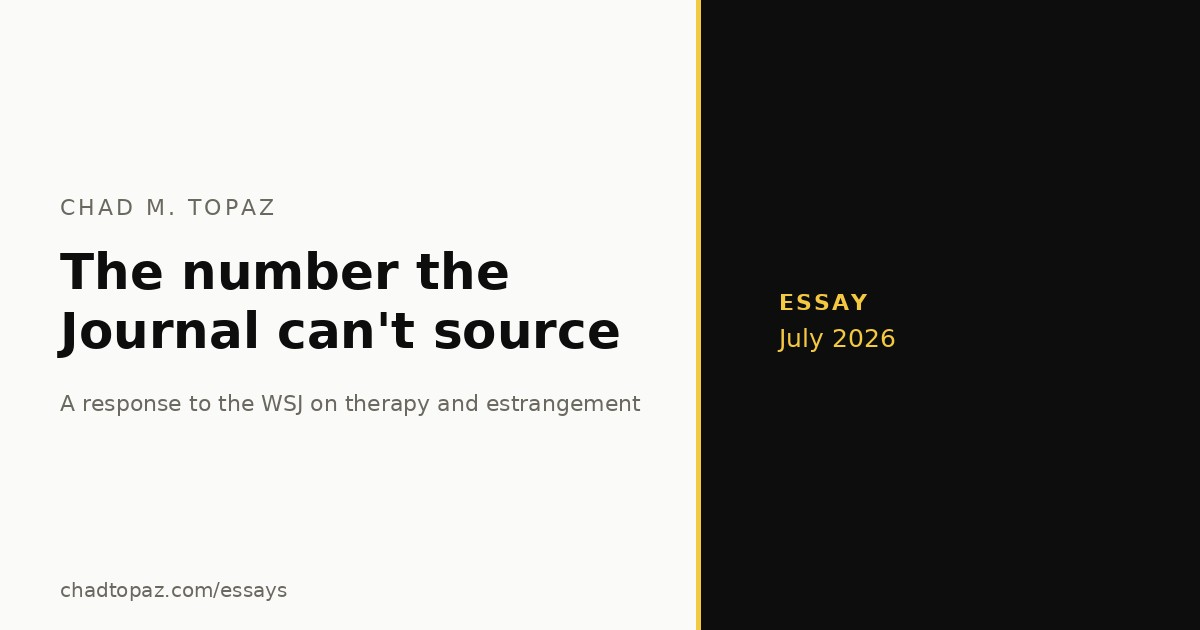
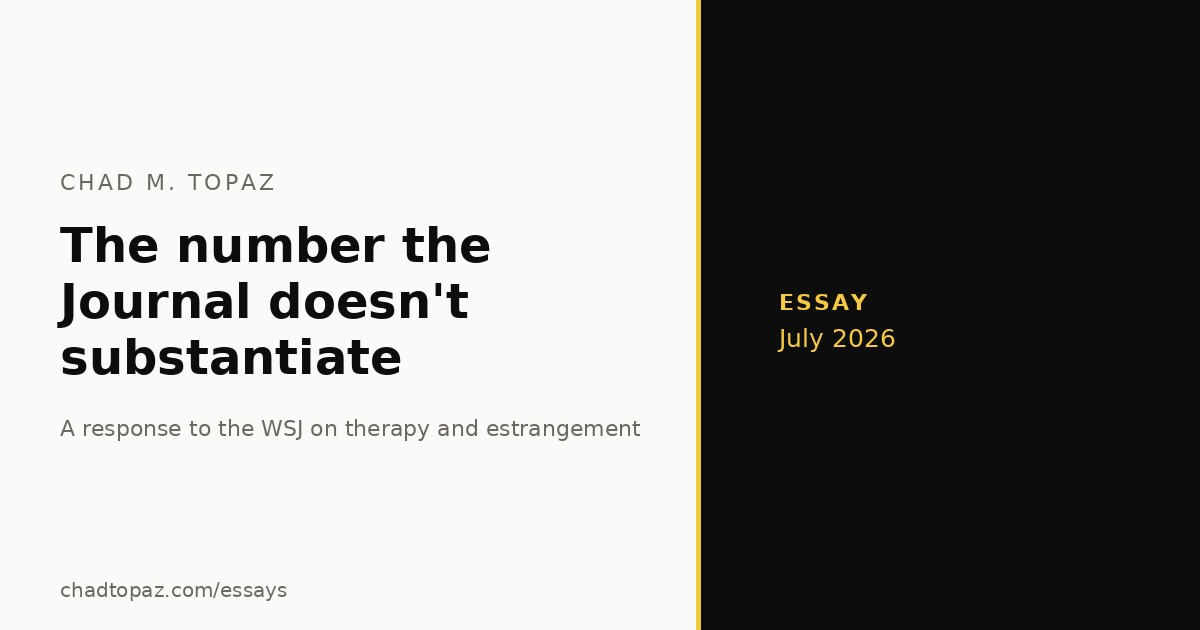
Add essay: The number the Journal doesn't substantiate (WSJ therapy/estrangement response)

Changed region(s): [[0.0308, 0.2714, 0.5242, 0.6032], [0.0308, 0.6333, 0.5242, 0.6937]]

diff --git a/essays/therapy-estrangement.html b/essays/therapy-estrangement.html
@@ -3,19 +3,19 @@
 <head>
 <meta charset="UTF-8">
 <meta name="viewport" content="width=device-width, initial-scale=1.0">
-<meta name="description" content="The Journal says a survey of some 7,000 estranged parents found a third blaming their child's therapist. The public data don't match that number, come from a one-sided, self-selected sample, and cannot establish cause. Nothing the column cites shows that estrangement is rising.">
-<meta property="og:title" content="The Number the Journal Can't Source: A Response to the Wall Street Journal on Therapy and Estrangement — Chad M. Topaz">
-<meta property="og:description" content="The Journal says a survey of some 7,000 estranged parents found a third blaming their child's therapist. The public data don't match that number, come from a one-sided, self-selected sample, and cannot establish cause. Nothing the column cites shows that estrangement is rising.">
+<meta name="description" content="The Journal says a survey of some 7,000 estranged parents found a third who believed their child's therapist had influenced the cutoff. The nearest public survey can't be reconciled with that number, comes from a one-sided, self-selected sample, and cannot establish cause. Nothing the column cites shows that estrangement is rising.">
+<meta property="og:title" content="The Number the Journal Doesn't Substantiate: A Response to the Wall Street Journal on Therapy and Estrangement — Chad M. Topaz">
+<meta property="og:description" content="The Journal says a survey of some 7,000 estranged parents found a third who believed their child's therapist had influenced the cutoff. The nearest public survey can't be reconciled with that number, comes from a one-sided, self-selected sample, and cannot establish cause. Nothing the column cites shows that estrangement is rising.">
 <meta property="og:type" content="article">
 <meta property="og:url" content="https://www.chadtopaz.com/essays/therapy-estrangement.html">
 <meta property="og:image" content="https://www.chadtopaz.com/images/therapy-estrangement-og.jpg">
 <meta property="og:site_name" content="Chad M. Topaz">
 <meta name="twitter:card" content="summary_large_image">
-<meta name="twitter:title" content="The Number the Journal Can't Source: A Response to the Wall Street Journal on Therapy and Estrangement — Chad M. Topaz">
-<meta name="twitter:description" content="The Journal says a survey of some 7,000 estranged parents found a third blaming their child's therapist. The public data don't match that number, come from a one-sided, self-selected sample, and cannot establish cause. Nothing the column cites shows that estrangement is rising.">
+<meta name="twitter:title" content="The Number the Journal Doesn't Substantiate: A Response to the Wall Street Journal on Therapy and Estrangement — Chad M. Topaz">
+<meta name="twitter:description" content="The Journal says a survey of some 7,000 estranged parents found a third who believed their child's therapist had influenced the cutoff. The nearest public survey can't be reconciled with that number, comes from a one-sided, self-selected sample, and cannot establish cause. Nothing the column cites shows that estrangement is rising.">
 <meta name="twitter:image" content="https://www.chadtopaz.com/images/therapy-estrangement-og.jpg">
 <link rel="canonical" href="https://www.chadtopaz.com/essays/therapy-estrangement.html">
-<title>The number the Journal can't source: A response to the Wall Street Journal on therapy and estrangement — Chad M. Topaz</title>
+<title>The number the Journal doesn't substantiate: A response to the Wall Street Journal on therapy and estrangement — Chad M. Topaz</title>
 <link rel="stylesheet" href="../css/style.css">
 <style>
 .essay-body {
@@ -109,8 +109,8 @@
 </div>
 <div class="page-header">
   <div class="page-label">Essay</div>
-  <h1 class="page-title">The number the Journal can't source: A response to the Wall Street Journal on therapy and estrangement</h1>
-  <p class="page-subtitle">The Journal says a survey of some 7,000 estranged parents found a third blaming their child&rsquo;s therapist. The public data don&rsquo;t match that number, come from a one-sided, self-selected sample, and cannot establish cause &mdash; and nothing the column cites shows that estrangement is rising.</p>
+  <h1 class="page-title">The number the Journal doesn't substantiate: A response to the Wall Street Journal on therapy and estrangement</h1>
+  <p class="page-subtitle">The Journal says a survey of some 7,000 estranged parents found a third who believed their child&rsquo;s therapist had influenced the cutoff. The nearest public survey can&rsquo;t be reconciled with that number, comes from a one-sided, self-selected sample, and cannot establish cause &mdash; and nothing the column cites shows that estrangement is rising.</p>
   <p class="essay-date">July 2026</p>
 </div>
 <div class="page-content">
@@ -120,19 +120,19 @@
 
 <p>The piece traveled fast. Within days, <a href="https://pjmedia.com/matt-margolis/2026/07/23/is-this-the-reason-your-leftist-relatives-are-cutting-you-off-n4955359" target="_blank">PJ Media</a> repackaged it as &ldquo;Is This the Reason Your Leftist Relatives Are Cutting You Off?&rdquo; and the <a href="https://www.dailywire.com/news/this-insane-new-therapy-trend-is-destroying-families" target="_blank">Daily Wire</a> as &ldquo;This Insane New Therapy Trend Is Destroying Families.&rdquo; A reported relationships column became, within one news cycle, a citation for the claim that therapy is dismantling the American family.</p>
 
-<p>Parts of the column describe something real. If a therapist recommended permanent estrangement in a second session, without adequate assessment or any exploration of alternatives, that would be poor practice. Rubli&rsquo;s account suggests that may have happened &mdash; though the column offers only her retrospective telling, with no clinical notes and no response from the therapist. Several therapists <a href="https://monews.substack.com/p/is-therapy-to-blame-for-the-rise" target="_blank">responding to Mo News</a> agreed that the approach she described would be wrong. William Doherty, the University of Minnesota family scientist the Journal quotes, has published a <a href="https://experts.umn.edu/en/publications/relationship-undermining-statements-by-psychotherapists-with-clie/" target="_blank">small pilot study</a> of a related concern: clients in individual therapy commonly recalled therapists making &ldquo;relationship-undermining statements&rdquo; about their romantic partners, and those recollections went along with worse relationship outcomes. The clinical concern deserves the attention it is getting. The causal story wrapped around it does not.</p>
+<p>Parts of the column describe something real. If a therapist recommended estrangement in a second session, without adequate assessment or any exploration of alternatives, that would be poor practice. Rubli&rsquo;s account suggests that may have happened &mdash; though the column offers only her retrospective telling, with no clinical notes and no response from the therapist. Several therapists <a href="https://monews.substack.com/p/is-therapy-to-blame-for-the-rise" target="_blank">responding to Mo News</a> agreed that the approach she described would be wrong. William Doherty, the University of Minnesota family scientist the Journal quotes, has published a <a href="https://experts.umn.edu/en/publications/relationship-undermining-statements-by-psychotherapists-with-clie/" target="_blank">small pilot study</a> of a related concern: clients in individual therapy commonly recalled therapists making &ldquo;relationship-undermining statements&rdquo; about their romantic partners, and those recollections went along with worse relationship outcomes. The clinical concern deserves the attention it is getting. The broader causal claim has not been established.</p>
 
-<p>I am a data scientist who works on issues of social justice, and much of that work comes down to one habit: before accepting the story a number tells, find out how the number was made. So I went looking for the source behind every empirical claim in the column. Here is what I found. First, the public data behind the column&rsquo;s central number do not match what the column describes: the surveys that exist are self-selected, one-sided, and explicitly noncausal, and they do not add up to &ldquo;some 7,000&rdquo; parents surveyed in April. Second, the &ldquo;rise&rdquo; in the headline rests on no repeated national measure. Third, the evidence that does exist &mdash; on why people leave, what leaving costs, and what therapists actually do &mdash; is more limited, mixed, and noncausal than the column implies.</p>
+<p>I am a data scientist who works on issues of social justice, and much of that work comes down to one habit: before accepting the story a number tells, find out how the number was made. So I went looking for the source behind every empirical claim in the column. Here is what I found. First, Anderson&rsquo;s public survey archive cannot be reconciled with the column&rsquo;s central number: the surveys it contains are self-selected, one-sided, and explicitly noncausal, and they do not add up to &ldquo;some 7,000&rdquo; parents surveyed in April. Second, the &ldquo;rise&rdquo; in the headline rests on no repeated national measure. Third, the evidence that does exist &mdash; on why people leave, what leaving costs, and what therapists actually do &mdash; is more limited, mixed, and noncausal than the column implies.</p>
 
 <h2>A number the column never shows</h2>
 
-<p>Start with the 7,000. The column attributes the survey to Peter Anderson, a licensed marriage and family therapist in Beverly, Mass., &ldquo;who helps families with estrangements and conducted the surveys.&rdquo; Anderson and Richard Blake have in fact posted a <a href="https://osf.io/6xt53/" target="_blank">public archive</a> of survey work on OSF. It documents two self-selected surveys run in 2024&ndash;25, with roughly 1,027 and 4,226 respondents &mdash; about 5,253 in total, not &ldquo;some 7,000&rdquo; surveyed in April. The materials describe recruitment through social-media channels for people interested in estrangement and a parent-only sample, and call the work &mdash; in the authors&rsquo; own words &mdash; citizen science rather than peer-reviewed research; they warn that the respondents overrepresent parents who feel wronged, and they state plainly that the data do not show therapy causes estrangement. The authors also disclose a professional interest in criticizing certain therapeutic practices. So the problem is not that no survey exists. It is that the public survey does not match the number the column reports &mdash; different sample, different size, different timing &mdash; and the column shows none of the methodology that would let a reader connect the two. The Journal should say what survey produced &ldquo;some 7,000&rdquo; parents, an April fielding, and a one-third figure, and publish its questionnaire, recruitment, and denominator.</p>
+<p>Start with the 7,000. The column attributes the survey to Peter Anderson, a licensed marriage and family therapist in Beverly, Mass., &ldquo;who helps families with estrangements and conducted the surveys.&rdquo; The only public Anderson survey archive I could find, <a href="https://osf.io/6xt53/" target="_blank">posted to OSF</a> by Anderson and Richard Blake, documents two self-selected surveys run in 2024&ndash;25, with roughly 1,027 and 4,226 respondents &mdash; about 5,253 in total, not &ldquo;some 7,000&rdquo; surveyed in April. The materials describe recruitment through social-media channels for people interested in estrangement and a parent-only sample, and call the work &mdash; in the authors&rsquo; own words &mdash; citizen science rather than peer-reviewed research; they warn that the respondents overrepresent parents who feel wronged, and they state plainly that the data do not show therapy causes estrangement. The authors also disclose a professional interest in criticizing certain therapeutic practices. These materials cannot be matched to the survey as the Journal describes it &mdash; different sample, different size, different timing &mdash; and the column does not explain whether its figure comes from a later survey, an expanded sample, or some combination of datasets. The Journal should say what survey produced &ldquo;some 7,000&rdquo; parents, an April fielding, and a one-third figure, and publish its questionnaire, recruitment, and denominator.</p>
 
-<p>Now look at what the number measures even if the survey were pristine. The load-bearing word is <em>believed</em>. Estranged parents were asked what they believed happened in confidential therapy sessions they did not attend, conducted by clinicians they never met. The role of therapy is one of the things both public surveys set out to measure, so the trouble is not that the question went unasked. It is that a parent&rsquo;s belief about a session she was not in is not evidence of what the therapist actually did.</p>
+<p>Now look at what the number measures even if the survey were pristine. The load-bearing word is <em>believed</em>. As the column reports the statistic, it records parents&rsquo; beliefs about therapy&rsquo;s role &mdash; not therapists&rsquo; records or adult children&rsquo;s accounts. The column does not disclose how respondents learned about the therapy, whether the adult child described the therapist&rsquo;s advice, whether a parent attended any session, or precisely what respondents were asked. The statistic therefore cannot directly measure what therapists did.</p>
 
-<p>That gap between belief and knowledge matters, because parents and adult children explain these ruptures differently. A 2015 study by Kristen Carr and colleagues, <a href="https://www.tandfonline.com/doi/abs/10.1080/15267431.2015.1013106" target="_blank">comparing separate, non-matched samples</a> of 546 estranged parents and 352 estranged adult children, found a systematic asymmetry: adult children point at the relationship &mdash; abuse, betrayal, feeling unaccepted &mdash; while parents point away from it, to divorce, to a son- or daughter-in-law, to outside influence. Joshua Coleman, a prominent advocate of the therapist explanation, <a href="https://knowablemagazine.org/content/article/mind/2026/causes-of-family-estrangement" target="_blank">lists the pattern himself</a>: parents blame &ldquo;divorce, their child&rsquo;s marriage or their child&rsquo;s therapy.&rdquo; A survey of estranged parents&rsquo; beliefs about therapists measures where grieving parents place blame &mdash; the one quantity this literature already predicted.</p>
+<p>That gap between belief and knowledge matters, because parents and adult children explain these ruptures differently. A 2015 study by Kristen Carr and colleagues <a href="https://www.tandfonline.com/doi/abs/10.1080/15267431.2015.1013106" target="_blank">compared separate, non-matched samples</a> of 546 estranged parents and 352 estranged adult children. Parents most often attributed the rift to their children&rsquo;s objectionable relationships or sense of entitlement, whereas adult children most often cited their parents&rsquo; toxic behavior or feeling unsupported and unaccepted. Joshua Coleman, a prominent advocate of the therapist explanation, <a href="https://knowablemagazine.org/content/article/mind/2026/causes-of-family-estrangement" target="_blank">summarizes a related asymmetry</a>: parents are more likely to blame &ldquo;divorce, their child&rsquo;s marriage or their child&rsquo;s therapy.&rdquo; The methodological point is that an attribution survey of parents measures parents&rsquo; accounts &mdash; not therapist behavior, and not which account is correct.</p>
 
-<p>And take the column&rsquo;s own figure at face value. If a third of these self-selected, parent-only respondents believed a therapist influenced the cutoff, then two-thirds did not.</p>
+<p>And even if the one-third figure were accepted, it would estimate a belief within this self-selected parent sample &mdash; not how often therapists recommend estrangement.</p>
 
 <h2>Four polls are not a trend line</h2>
 
@@ -140,13 +140,13 @@
 
 <p>Here is the actual inventory. Karl Pillemer&rsquo;s <a href="https://news.cornell.edu/stories/2020/09/pillemer-family-estrangement-problem-hiding-plain-sight" target="_blank">national survey</a> of 1,340 American adults, published in 2020, found 27 percent estranged from a family member and 10 percent from a parent or child. A <a href="https://yougov.com/en-us/articles/44817-poll-family-ties-proximity-and-estrangement" target="_blank">2022 YouGov poll</a> put estrangement from an immediate family member at 29 percent. A <a href="https://theharrispoll.com/articles/estrangement/" target="_blank">2024 Harris poll</a> put immediate-family estrangement at 35 percent. A <a href="https://yougov.com/en-us/articles/52733-family-estrangement-how-often-and-why-it-happens" target="_blank">2025 YouGov poll</a> found 38 percent estranged from at least one of five listed relatives &mdash; sibling, parent, child, grandparent, grandchild.</p>
 
-<p>Plot 27, 29, 35, 38 and you see an epidemic. Read the four questionnaires and it dissolves: different polling houses, different definitions, different lists of relatives, different response scales. No comparable repeated national measure &mdash; the same instrument, the same population, at two points in time &mdash; has been cited to show estrangement rising. (Panels that do follow the same people, like a <a href="https://onlinelibrary.wiley.com/doi/full/10.1111/jomf.12796" target="_blank">ten-wave German study</a>, measure how common estrangement is, not whether it is climbing nationally.) That is an open question, not a premise for a headline; even the rise-framed reporting the column leans on <a href="https://knowablemagazine.org/content/article/mind/2026/causes-of-family-estrangement" target="_blank">concedes</a> that no one has quantified how much estrangement has increased.</p>
+<p>Plot 27, 29, 35, 38 and you see an epidemic. Read the four questionnaires and it dissolves: different polling houses, different definitions, different lists of relatives, different response scales. No comparable repeated national measure &mdash; the same instrument, the same population, at two points in time &mdash; has been cited to show estrangement rising. (Panels that do follow the same people, like a <a href="https://onlinelibrary.wiley.com/doi/full/10.1111/jomf.12796" target="_blank">ten-wave German study</a>, measure how common estrangement is, not whether it is climbing nationally.) That is an open question, not a premise for a headline; even a recent rise-framed article in <a href="https://knowablemagazine.org/content/article/mind/2026/causes-of-family-estrangement" target="_blank">Knowable Magazine</a> concedes that researchers have not quantified how much estrangement has increased.</p>
 
-<p>Longitudinal data also suggest estrangement is anything but new. Analyzing the National Longitudinal Survey of Youth &mdash; a federal study that has followed the same families for decades &mdash; <a href="https://onlinelibrary.wiley.com/doi/full/10.1111/jomf.12898" target="_blank">Rin Reczek and colleagues</a> found that 26 percent of adult children experienced a period of estrangement from a father and 6 percent from a mother, with first estrangements at average ages of 23 and 26. Reczek defines estrangement broadly &mdash; little or no contact, or limited contact paired with low closeness &mdash; not only a declared, permanent &ldquo;no contact.&rdquo; The panel observed periods meeting that definition from 1994 through 2018, well before estrangement TikTok, &ldquo;no contact&rdquo; hashtags, and Instagram therapists. Pillemer&rsquo;s own 2020 framing was not that estrangement was new. It was that it had been <a href="https://news.cornell.edu/stories/2020/09/pillemer-family-estrangement-problem-hiding-plain-sight" target="_blank">&ldquo;hiding in plain sight.&rdquo;</a></p>
+<p>Longitudinal data also suggest estrangement is anything but new. Analyzing the National Longitudinal Survey of Youth &mdash; a federal study that has followed the same families for decades &mdash; <a href="https://onlinelibrary.wiley.com/doi/full/10.1111/jomf.12898" target="_blank">Rin Reczek and colleagues</a> found that 26 percent of adult children experienced a period of estrangement from a father and 6 percent from a mother, with first estrangements at average ages of 23 and 26. Reczek defines estrangement broadly &mdash; little or no contact, or limited contact paired with low closeness &mdash; not only a declared, permanent &ldquo;no contact.&rdquo; The panel detected such periods as early as 1994, long before estrangement TikTok, &ldquo;no contact&rdquo; hashtags, and Instagram therapists. Pillemer&rsquo;s own 2020 framing was not that estrangement was new. It was that it had been <a href="https://news.cornell.edu/stories/2020/09/pillemer-family-estrangement-problem-hiding-plain-sight" target="_blank">&ldquo;hiding in plain sight.&rdquo;</a></p>
 
 <h2>What the estranged actually say</h2>
 
-<p>Now weigh the evidence that does exist. The column&rsquo;s cultural theory &mdash; &ldquo;everything becomes trauma,&rdquo; minor grievances recast as abuse &mdash; is checkable against the reasons estranged people themselves give. In the 2025 YouGov poll, adults estranged from a parent most often cited manipulative behavior (34 percent), physical, emotional, or sexual abuse (34 percent), lies or betrayal (31 percent), and abandonment or neglect (29 percent). Political disagreement, the explanation Americans reach for first when asked to theorize about <em>other</em> families, came in at 7 percent.</p>
+<p>Now weigh the evidence that does exist. The column&rsquo;s cultural theory &mdash; &ldquo;everything becomes trauma,&rdquo; minor grievances recast as abuse &mdash; is checkable against the reasons estranged people themselves give. In the 2025 YouGov poll, adults estranged from a parent most often cited manipulative behavior (34 percent), physical, emotional, or sexual abuse (34 percent), lies or betrayal (31 percent), and abandonment or neglect (29 percent). Political disagreement was cited by 7 percent.</p>
 
 <p>Are those self-reports? Of course. But the column cannot have it both ways: it treats adult children&rsquo;s accounts as social-media contagion while treating parents&rsquo; beliefs about unseen therapy sessions as data. Pick an evidentiary standard and hold it for both sides of the rupture.</p>
 
@@ -158,27 +158,27 @@
 
 <p>I could not find it. The phrase &ldquo;exiter cost&rdquo; appears in the column and in pieces quoting the column; I found no identifiable Pillemer publication or public report supporting this specific claim about initiators, statistical differences, and change over time &mdash; not in his published studies, not in the public materials around his book, which describe distress on all sides of a rift, not on Cornell&rsquo;s own <a href="https://evidencebasedliving.human.cornell.edu/blog/how-to-mend-a-family-rift" target="_blank">pages about his work</a>. It may derive from unpublished analysis. But a claim this specific deserves a citation, and the column supplies none.</p>
 
-<p>The peer-reviewed outcome literature is more careful. A <a href="https://onlinelibrary.wiley.com/doi/full/10.1111/fare.13063" target="_blank">German panel study</a> of 5,245 adults found estrangement &mdash; from parents or siblings &mdash; correlated with lower well-being, a correlation that, by the study&rsquo;s own design, cannot say whether estrangement causes distress or whether the abuse, conflict, and mental illness that precede it cause both. And in a <a href="https://onlinelibrary.wiley.com/doi/full/10.1111/jomf.13013" target="_blank">large U.S. analysis</a> of maternal ties, Reczek and colleagues compared estranged adult children with those in warm relationships and those in high-contact but socially negative ones. The estranged children&rsquo;s depressive symptoms were statistically indistinguishable from those with warm ties; their self-rated health resembled that of people in the high-contact, low-quality relationships, which carry costs of their own. The relevant comparison, in other words, is rarely estrangement versus a happy family. It is estrangement versus staying, and staying is not free.</p>
+<p>The peer-reviewed outcome literature is more careful. A <a href="https://onlinelibrary.wiley.com/doi/full/10.1111/fare.13063" target="_blank">German panel study</a> of 5,245 adults found estrangement &mdash; from parents or siblings &mdash; correlated with lower well-being, a correlation that, by the study&rsquo;s own design, cannot say whether estrangement causes distress or whether preexisting conflict or other factors contribute to both. And in a <a href="https://onlinelibrary.wiley.com/doi/full/10.1111/jomf.13013" target="_blank">large U.S. analysis</a> of maternal ties, Reczek and colleagues compared estranged adult children with those in warm relationships and those in high-contact but socially negative ones. The estranged children&rsquo;s depressive symptoms were statistically indistinguishable from those with warm ties; their self-rated health resembled that of people in the high-contact, low-quality relationships, which carry costs of their own. For many people, in other words, the relevant comparison may not be estrangement versus a happy family but estrangement versus remaining in a low-quality relationship &mdash; and staying is not free.</p>
 
-<p>One more finding the epidemic story struggles to absorb: in the NLSY data, among adult children observed after an estranged period, <a href="https://onlinelibrary.wiley.com/doi/full/10.1111/jomf.12898" target="_blank">81 percent of maternal and 69 percent of paternal relationships</a> later no longer met the study&rsquo;s estrangement threshold. That is not the same as full reconciliation, and a later wave can slip back. But the cutoff the column presents as a life sentence is, in this longitudinal accounting, often impermanent &mdash; as the authors themselves note.</p>
+<p>One more finding the epidemic story struggles to absorb: in the NLSY data, among adult children observed after an estranged period, <a href="https://onlinelibrary.wiley.com/doi/full/10.1111/jomf.12898" target="_blank">81 percent of maternal and 69 percent of paternal relationships</a> later no longer met the study&rsquo;s estrangement threshold. These figures do not establish full or durable reconciliation, but they show that many episodes meeting this study&rsquo;s definition were impermanent.</p>
 
 <h2>The evidence on therapists, stated by its champion</h2>
 
-<p>Which brings the argument back to where the column started: the therapists. What does research say about therapy&rsquo;s role in estrangement? Almost nothing quantitative, in either direction. The closest study analyzed <a href="https://onlinelibrary.wiley.com/doi/full/10.1111/fare.12385" target="_blank">open-text answers from 209 members</a> of a UK estrangement-support charity, who described counseling as most helpful when clinicians knew the estrangement literature and supported clients&rsquo; own decisions rather than steering them; it cannot tell us how often steering happens. Doherty&rsquo;s undermining-statements study, the strongest card in the column&rsquo;s hand, concerns romantic partners, not parents, and rests on 101 clients&rsquo; recollections.</p>
+<p>Which brings the argument back to where the column started: the therapists. What does research say about therapy&rsquo;s role in estrangement? Almost nothing estimates how often therapists steer clients toward estrangement, or whether such advice causes it. The closest study analyzed <a href="https://onlinelibrary.wiley.com/doi/full/10.1111/fare.12385" target="_blank">open-text answers from 209 members</a> of a UK estrangement-support charity, who described counseling as most helpful when clinicians knew the estrangement literature and supported clients&rsquo; own decisions rather than steering them; it cannot tell us how often steering happens. Doherty&rsquo;s undermining-statements study, the strongest card in the column&rsquo;s hand, concerns romantic partners, not parents, and rests on 101 clients&rsquo; recollections.</p>
 
-<p>So the affirmative case comes down to this. A self-selected, parent-only survey whose own authors caution that it cannot show therapy causes estrangement, plus the sentence Coleman gave <a href="https://knowablemagazine.org/content/article/mind/2026/causes-of-family-estrangement" target="_blank">Knowable Magazine</a> this year: &ldquo;I don&rsquo;t believe there&rsquo;s research on this topic, but I do think that therapists are a big agent of estrangements.&rdquo;</p>
+<p>The quantitative case for a common causal role therefore rests chiefly on an unexplained survey statistic whose nearest public counterpart is self-selected, parent-only, and explicitly noncausal, plus the sentence Coleman gave <a href="https://knowablemagazine.org/content/article/mind/2026/causes-of-family-estrangement" target="_blank">Knowable Magazine</a> this year: &ldquo;I don&rsquo;t believe there&rsquo;s research on this topic, but I do think that therapists are a big agent of estrangements.&rdquo;</p>
 
-<p>Read that twice. A prominent advocate of the therapist explanation concedes that the research does not exist, then asserts the conclusion anyway. He may turn out to be right &mdash; but a belief is not a finding, and no amount of quotation turns one into the other.</p>
+<p>Read that twice. A prominent advocate of the therapist explanation says he knows of no research establishing therapists&rsquo; role, then offers his own judgment anyway. He may turn out to be right &mdash; but a belief is not a finding, and no amount of quotation turns one into the other.</p>
 
 <h2>The tragic exception</h2>
 
-<p>Add it up. The column&rsquo;s central number cannot be matched to any survey it discloses. Its headline trend rests on no repeated national measure. Its most striking research claim carries no citation. Its causal thesis is one a prominent advocate calls unresearched.</p>
+<p>Add it up. The column&rsquo;s central number cannot be reconciled with Anderson&rsquo;s public archive. Its headline trend is not established by any comparable repeated national measure. Its &ldquo;exiter cost&rdquo; lacks an identifiable citation. And its causal implication remains unsupported by representative or causal evidence.</p>
 
 <p>One more fact belongs next to those. This was not an op-ed. Bernstein writes a reported relationships column, outside the Opinion section, translating social science for millions of readers. Journalism of that kind owes readers what science owes everyone: sources that can be checked. The fix is cheap, and it is the Journal&rsquo;s to make. Say which survey produced the &ldquo;some 7,000&rdquo; figure, and publish its methodology. Cite the study behind the &ldquo;exiter cost.&rdquo; Show the trend line, or stop implying one exists.</p>
 
-<p>The stakes are not academic. Estranged parents are in real pain, and &ldquo;a therapist did this&rdquo; is a counsel of helplessness. Among the <a href="https://alumni.cornell.edu/cornellians/family-estrangement" target="_blank">100 reconcilers Pillemer interviewed</a>, almost all said they had abandoned the need for the relative to accept their version of the past or to apologize &mdash; not that they had found a new party to blame. Adult children are owed something too. A third of those estranged from a parent cite abuse, and they deserve not to have their hardest decision recast as a wellness trend.</p>
+<p>The stakes are not academic. Estranged parents are in real pain, and &ldquo;a therapist did this&rdquo; is a counsel of helplessness. Among the <a href="https://alumni.cornell.edu/cornellians/family-estrangement" target="_blank">100 reconcilers Pillemer interviewed</a>, almost all reported abandoning the need for the relative to accept their version of the past or to apologize. That descriptive finding does not establish what causes reconciliation, but it emphasizes the agency the participants themselves retained. Adult children are owed something too. In the 2025 YouGov poll, 34 percent of respondents estranged from a parent cited physical, emotional, or sexual abuse, and they deserve not to have their hardest decision recast as a wellness trend.</p>
 
-<p>Doherty told the Journal that cutting off a parent &ldquo;should be the tragic exception&hellip; not business as usual in therapy.&rdquo; Whether he is right about families is exactly what has not been established with representative or causal evidence. In journalism, though, the standard is not in dispute: a causal epidemic story built on evidence readers cannot check should be the tragic exception. Not business as usual.</p>
+<p>Doherty told the Journal that cutting off a parent &ldquo;should be the tragic exception&hellip; not business as usual in therapy.&rdquo; Whether cutting off a parent is business as usual in therapy is exactly what has not been established with representative or causal evidence. In journalism, though, the standard is not in dispute: a causal epidemic story built on evidence readers cannot check should be the tragic exception. Not business as usual.</p>
 
   </article>
   <p style="margin-top: 3rem; font-size: 0.82rem; color: var(--mid); line-height: 1.7; max-width: 680px; margin-left: auto; margin-right: auto;">This is the kind of data-driven justice work I do in my book <a href="https://www.amazon.com/Unlocking-Justice-Confront-Inequity-Create/dp/0691276153" target="_blank" style="color: var(--mid); border-bottom: 1px solid var(--rule);">Unlocking Justice</a>, now available from Princeton University Press.</p>

diff --git a/essays/index.html b/essays/index.html
@@ -79,7 +79,7 @@
 </div>
 <div class="page-content">
   <div class="press-group">
-    <div class="press-item"><a href="therapy-estrangement.html"><div class="press-outlet">July 2026</div><div class="press-title">The number the Journal can't source: A response to the Wall Street Journal on therapy and estrangement</div></a></div>
+    <div class="press-item"><a href="therapy-estrangement.html"><div class="press-outlet">July 2026</div><div class="press-title">The number the Journal doesn't substantiate: A response to the Wall Street Journal on therapy and estrangement</div></a></div>
     <div class="press-item"><a href="fireworks-per-second.html"><div class="press-outlet">July 2026</div><div class="press-title">Three Hundred Fifty-Four Fireworks per Second</div></a></div>
     <div class="press-item"><a href="phone-bans-disability.html"><div class="press-outlet">May 2026</div><div class="press-title">Who counts in the phone-ban evidence?</div></a></div>
     <div class="press-item"><a href="judicial-transparency.html"><div class="press-outlet">May 2026</div><div class="press-title">The reprimand is sealed: A federal judge, a police officer, and what judicial transparency asks the public to take on faith</div></a></div>
